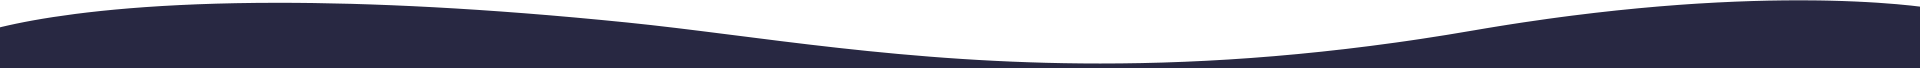
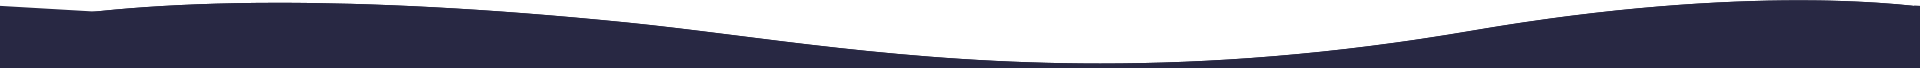
changes

diff --git a/rocket/index.html b/rocket/index.html
@@ -84,7 +84,7 @@
         <header class="header_area">
             <nav class="navbar navbar-expand-xl menu_one menu_four">
                 <div class="container custom_container p0">
-                    <a class="navbar-brand" href="#"><img src="img/main-img/logo.png" srcset="img/logo2x.png 2x" alt="logo"></a>
+                    <a class="navbar-brand" href="#"><img src="img/main-img/logo.svg" alt="logo"></a>
                     <button class="navbar-toggler collapsed" type="button" data-toggle="collapse"
                         data-target="#navbarSupportedContent" aria-controls="navbarSupportedContent"
                         aria-expanded="false" aria-label="Toggle navigation">
@@ -280,7 +280,8 @@
                             <li class="nav-item wow fadeInLeft" data-wow-delay="0.3s">
                                 <a class="nav-link active" id="top-feature-tab-1" data-toggle="pill" href="#top-feature-1" role="tab" aria-controls="top-feature-1" aria-selected="true">
                                     <div class="tab-icon">
-                                        <img src="img/main-img/top-features/tab-icon-2.svg" alt="tab-icon">
+                                        <!--<img src="img/main-img/top-features/tab-icon-2.svg" alt="tab-icon">-->
+                                        <span class="ti-list"></span>
                                     </div>
                                     <span>Comprehensive Account Audits</span>
                                 </a>
@@ -288,7 +289,8 @@
                             <li class="nav-item wow fadeInLeft" data-wow-delay="0.4s">
                                 <a class="nav-link" id="top-feature-tab-2" data-toggle="pill" href="#top-feature-2" role="tab" aria-controls="top-feature-2" aria-selected="false">
                                     <div class="tab-icon">
-                                        <img src="img/main-img/top-features/tab-icon-1.svg" alt="tab-icon">
+                                        <!--<img src="img/main-img/top-features/tab-icon-1.svg" alt="tab-icon">-->
+                                        <span class="ti-world"></span>
                                     </div>
                                     <span>Landing Page Crawler</span>
                                 </a>
@@ -296,7 +298,8 @@
                             <li class="nav-item wow fadeInLeft" data-wow-delay="0.5s">
                                 <a class="nav-link" id="top-feature-tab-3" data-toggle="pill" href="#top-feature-3" role="tab" aria-controls="top-feature-3" aria-selected="false">
                                     <div class="tab-icon">
-                                        <img src="img/main-img/top-features/tab-icon-3.svg" alt="tab-icon">
+                                        <!--<img src="img/main-img/top-features/tab-icon-3.svg" alt="tab-icon">-->
+                                        <span class="ti-layout-tab-window"></span>
                                     </div>
                                     <span>Quality Score Tracker</span>
                                 </a>
@@ -304,7 +307,8 @@
                             <li class="nav-item wow fadeInLeft" data-wow-delay="0.6s">
                                 <a class="nav-link" id="top-feature-tab-4" data-toggle="pill" href="#top-feature-4" role="tab" aria-controls="top-feature-4" aria-selected="false">
                                     <div class="tab-icon">
-                                        <img src="img/main-img/top-features/tab-icon-4.svg" alt="tab-icon">
+                                        <!--<img src="img/main-img/top-features/tab-icon-4.svg" alt="tab-icon">-->
+                                        <span class="ti-bar-chart"></span>
                                     </div>
                                     <span>Account Activity Report</span>
                                 </a>
@@ -312,7 +316,8 @@
                             <li class="nav-item wow fadeInLeft" data-wow-delay="0.7s">
                                 <a class="nav-link" id="top-feature-tab-5" data-toggle="pill" href="#top-feature-5" role="tab" aria-controls="top-feature-5" aria-selected="false">
                                     <div class="tab-icon">
-                                        <img src="img/main-img/top-features/tab-icon-5.svg" alt="tab-icon">
+                                        <!--<img src="img/main-img/top-features/tab-icon-5.svg" alt="tab-icon">-->
+                                        <span class="ti-settings"></span>
                                     </div>
                                     <span>Ad Group Optimizer</span>
                                 </a>
@@ -320,7 +325,8 @@
                             <li class="nav-item wow fadeInLeft" data-wow-delay="0.8s">
                                 <a class="nav-link" id="top-feature-tab-6" data-toggle="pill" href="#top-feature-6" role="tab" aria-controls="top-feature-6" aria-selected="false">
                                     <div class="tab-icon">
-                                        <img src="img/main-img/top-features/tab-icon-6.svg" alt="tab-icon">
+                                        <!--<img src="img/main-img/top-features/tab-icon-6.svg" alt="tab-icon">-->
+                                        <span class="ti-dashboard"></span>
                                     </div>
                                     <span>Performance Analyzer</span>
                                 </a>
@@ -367,13 +373,13 @@
 
                                         <ul class="m-0 p-0 top-list-features">
                                             <li>
-                                                <h6>Technical Audit</h6>
+                                                <h6>Audit</h6>
                                                 <span>PPC Rocket automatically assesses the technical health of your landing pages, from 4xx & 5xx status codes, page availability, redirects, and page speed to overall keyword relevancy.</span>
                                             </li>
 
                                             <li>
-                                                <h6>Product Stock Validation</h6>
-                                                <span>Ensure products in your campaigns are always in stock. PPC Rocket will pause and resume keywords or ads as product stock levels change.</span>
+                                                <h6>Product Validation</h6>
+                                                <span>PPC Rocket will pause and resume keywords or ads as product stock levels change.</span>
                                             </li>
 
                                             <li>
@@ -383,8 +389,8 @@
                                         </ul>
                                     </div>
 
-                                    <div class="col-md-7">
-                                        <img src="img/main-img/tab-img.png" alt="tab-image">
+                                    <div class="col-md-7 text-center">
+                                        <img src="img/main-img/blog-single/img-1.png" alt="tab-image">
                                     </div>
                                 </div>
                             </div>
@@ -397,24 +403,24 @@
 
                                         <ul class="m-0 p-0 top-list-features">
                                             <li>
-                                                <h6>Technical Audit</h6>
-                                                <span>PPC Rocket automatically assesses the technical health of your landing pages, from 4xx & 5xx status codes, page availability, redirects, and page speed to overall keyword relevancy.</span>
+                                                <h6>Technical</h6>
+                                                <span>PPC Rocket automatically assesses the technical health of your landing pages, from 4xx & 5xx status codes, page availability, redirects and etc.</span>
                                             </li>
 
                                             <li>
-                                                <h6>Product Stock Validation</h6>
-                                                <span>Ensure products in your campaigns are always in stock. PPC Rocket will pause and resume keywords or ads as product stock levels change.</span>
+                                                <h6>Stock Validation</h6>
+                                                <span>Ensure products in your campaigns are always in stock. </span>
                                             </li>
 
                                             <li>
-                                                <h6>Performance Audit</h6>
-                                                <span>Determine landing page performance with detailed breakdowns of marketing ratios & conversion rates, cost vs. conversion, keywords linking to a page, and estimated costs for unreachable pages in your ad campaigns.</span>
+                                                <h6>Audit</h6>
+                                                <span>Detailed breakdowns of marketing ratios & conversion rates, cost vs. conversion, keywords linking to a page, and estimated costs for unreachable pages in your ad campaigns.</span>
                                             </li>
                                         </ul>
                                     </div>
 
-                                    <div class="col-md-7">
-                                        <img src="img/main-img/tab-img.png" alt="tab-image">
+                                    <div class="col-md-7 text-center">
+                                        <img src="img/main-img/blog-single/img-2.png" alt="tab-image">
                                     </div>
                                 </div>
                             </div>
@@ -427,24 +433,24 @@
 
                                         <ul class="m-0 p-0 top-list-features">
                                             <li>
-                                                <h6>Technical Audit</h6>
-                                                <span>PPC Rocket automatically assesses the technical health of your landing pages, from 4xx & 5xx status codes, page availability, redirects, and page speed to overall keyword relevancy.</span>
+                                                <h6>Technical Audit Activity</h6>
+                                                <span>Automatically assesses the technical health of your landing pages, from 4xx & 5xx status codes, page availability, redirects, and page speed to overall keyword relevancy.</span>
                                             </li>
 
                                             <li>
-                                                <h6>Product Stock Validation</h6>
-                                                <span>Ensure products in your campaigns are always in stock. PPC Rocket will pause and resume keywords or ads as product stock levels change.</span>
+                                                <h6>alidation</h6>
+                                                <span>Ensure products in your campaigns are always in stock.</span>
                                             </li>
 
                                             <li>
-                                                <h6>Performance Audit</h6>
-                                                <span>Determine landing page performance with detailed breakdowns of marketing ratios & conversion rates, cost vs. conversion, keywords linking to a page, and estimated costs for unreachable pages in your ad campaigns.</span>
+                                                <h6>Performance Activity</h6>
+                                                <span>Marketing ratios & conversion rates, cost vs. conversion, keywords linking to a page, and estimated costs for unreachable pages in your ad campaigns.</span>
                                             </li>
                                         </ul>
                                     </div>
 
-                                    <div class="col-md-7">
-                                        <img src="img/main-img/tab-img.png" alt="tab-image">
+                                    <div class="col-md-7 text-center">
+                                        <img src="img/main-img/blog-single/img-3.png" alt="tab-image">
                                     </div>
                                 </div>
                             </div>
@@ -457,24 +463,24 @@
 
                                         <ul class="m-0 p-0 top-list-features">
                                             <li>
-                                                <h6>Technical Audit</h6>
-                                                <span>PPC Rocket automatically assesses the technical health of your landing pages, from 4xx & 5xx status codes, page availability, redirects, and page speed to overall keyword relevancy.</span>
+                                                <h6>Technical Optimizer</h6>
+                                                <span>Technical health of your landing pages, from 4xx & 5xx status codes, page availability, redirects, and page speed to overall keyword relevancy.</span>
                                             </li>
 
                                             <li>
-                                                <h6>Product Stock Validation</h6>
-                                                <span>Ensure products in your campaigns are always in stock. PPC Rocket will pause and resume keywords or ads as product stock levels change.</span>
+                                                <h6>Product</h6>
+                                                <span>PPC Rocket will pause and resume keywords or ads as product stock levels change.</span>
                                             </li>
 
                                             <li>
-                                                <h6>Performance Audit</h6>
-                                                <span>Determine landing page performance with detailed breakdowns of marketing ratios & conversion rates, cost vs. conversion, keywords linking to a page, and estimated costs for unreachable pages in your ad campaigns.</span>
+                                                <h6>Optimizer</h6>
+                                                <span>Performance with detailed breakdowns of marketing ratios & conversion rates, cost vs. conversion, keywords linking to a page, and estimated costs for unreachable pages in your ad campaigns.</span>
                                             </li>
                                         </ul>
                                     </div>
 
-                                    <div class="col-md-7">
-                                        <img src="img/main-img/tab-img.png" alt="tab-image">
+                                    <div class="col-md-7 text-center">
+                                        <img src="img/main-img/blog-single/img-4.png" alt="tab-image">
                                     </div>
                                 </div>
                             </div>
@@ -487,24 +493,24 @@
 
                                         <ul class="m-0 p-0 top-list-features">
                                             <li>
-                                                <h6>Technical Audit</h6>
-                                                <span>PPC Rocket automatically assesses the technical health of your landing pages, from 4xx & 5xx status codes, page availability, redirects, and page speed to overall keyword relevancy.</span>
+                                                <h6>Technical Analyzer</h6>
+                                                <span>Analyzer of your landing pages, from 4xx & 5xx status codes, page availability, redirects, and page speed to overall keyword relevancy.</span>
                                             </li>
 
                                             <li>
-                                                <h6>Product Stock Validation</h6>
-                                                <span>Ensure products in your campaigns are always in stock. PPC Rocket will pause and resume keywords or ads as product stock levels change.</span>
+                                                <h6>Product Stock</h6>
+                                                <span>Analyzer will pause and resume keywords or ads as product stock levels change.</span>
                                             </li>
 
                                             <li>
-                                                <h6>Performance Audit</h6>
-                                                <span>Determine landing page performance with detailed breakdowns of marketing ratios & conversion rates, cost vs. conversion, keywords linking to a page, and estimated costs for unreachable pages in your ad campaigns.</span>
+                                                <h6>Performance</h6>
+                                                <span>Determine landing page performance with detailed breakdowns of marketing ratios & conversion rates, cost vs. conversion, keywords linking to a page, and estimated costs.</span>
                                             </li>
                                         </ul>
                                     </div>
 
-                                    <div class="col-md-7">
-                                        <img src="img/main-img/tab-img.png" alt="tab-image">
+                                    <div class="col-md-7 text-center">
+                                        <img src="img/main-img/blog-single/img-5.png" alt="tab-image">
                                     </div>
                                 </div>
                             </div>
@@ -705,7 +711,7 @@
                             </div>
                         </div>
                         <div class="col-lg-4 col-md-8 col-12 mx-auto d-none d-lg-block" id="smb">
-                            <div class="price_item wow fadeInUp" data-wow-delay="0.5s">
+                            <div class="price_item price-item-active wow fadeInUp" data-wow-delay="0.5s">
                                 <h5 class="f_size_40 f_600">SMB</h5>
                                 <p class="mt_30">For small and medium-sized businesses, our pricing is based on the monthly account spend.</p>
                                 <div class="price mt_30">

diff --git a/rocket/css/style.css b/rocket/css/style.css
@@ -814,6 +814,10 @@ a, .btn, button {
   .header_area.inner-header {
     background: #fff; }
 
+.navbar-brand img {
+  width: 100%;
+  max-width: 275px; }
+
 .menu_one {
   padding: 0px; }
   .menu_one .btn_get {
@@ -2491,6 +2495,9 @@ a, .btn, button {
     .partner_logo .owl-nav button.owl-next {
       transform: scale(-1, 1);
       right: -46px; }
+
+.agency_banner_area .protype_img {
+  max-width: 1000px; }
 
 /*============== agency_banner_area css =============*/
 .agency_banner_area {
@@ -6329,19 +6336,19 @@ a, .btn, button {
     /* Add custom arrow */
     background-repeat: no-repeat;
     background-position: right center; }
-  .price_content .price_item:hover {
+  .price_content .price_item:hover, .price_content .price_item.price-item-active {
     border-color: #1d89c6;
     background: #1d89c6; }
-    .price_content .price_item:hover *, .price_content .price_item:hover li {
+    .price_content .price_item:hover *, .price_content .price_item:hover li, .price_content .price_item.price-item-active *, .price_content .price_item.price-item-active li {
       color: #fff; }
-    .price_content .price_item:hover .p_list li i {
+    .price_content .price_item:hover .p_list li i, .price_content .price_item.price-item-active .p_list li i {
       color: #1d89c6;
       background: #fff; }
-    .price_content .price_item:hover .price_btn {
+    .price_content .price_item:hover .price_btn, .price_content .price_item.price-item-active .price_btn {
       background: #ff516c; }
-    .price_content .price_item:hover .price-sale {
+    .price_content .price_item:hover .price-sale, .price_content .price_item.price-item-active .price-sale {
       background: rgba(255, 255, 255, 0.2); }
-    .price_content .price_item:hover select {
+    .price_content .price_item:hover select, .price_content .price_item.price-item-active select {
       color: #636363; }
 
 .actual-price {
@@ -6543,7 +6550,7 @@ a, .btn, button {
   .curved.bottom {
     top: auto;
     bottom: 0;
-    background: url("../img/main-img/sharp.png") repeat-x scroll center 4px; }
+    background: url("../img/main-img/sharp-pattern.png") repeat-x scroll center 4px; }
     .curved.bottom.color {
       background: url("../img/main-img/sharp-color.png") repeat-x scroll center 4px; }
   .curved.color {
@@ -21781,7 +21788,7 @@ footer .f_menu {
 
 /*====================================================*/
 .top-features {
-  background: url(../img/main-img/tab-bg.png) 87% 74% no-repeat; }
+  background: url(../img/main-img/tab-bg.png) 87% 500px no-repeat; }
 
 .top-feature-tab {
   margin-bottom: 60px; }
@@ -21817,6 +21824,8 @@ footer .f_menu {
     .top-feature-tab .tab-icon img {
       display: inline-block;
       width: auto; }
+    .top-feature-tab .tab-icon span {
+      font-size: 2.5rem; }
   .top-feature-tab .owl-nav {
     text-align: center; }
     .top-feature-tab .owl-nav button {

diff --git a/rocket/js/main.js b/rocket/js/main.js
@@ -1733,6 +1733,7 @@
                 autoplay: false,
                 smartSpeed: 100,
                 responsiveClass: true,
+                mouseDrag: false,
                 responsive: {
                     0: {
                         items: 3,
